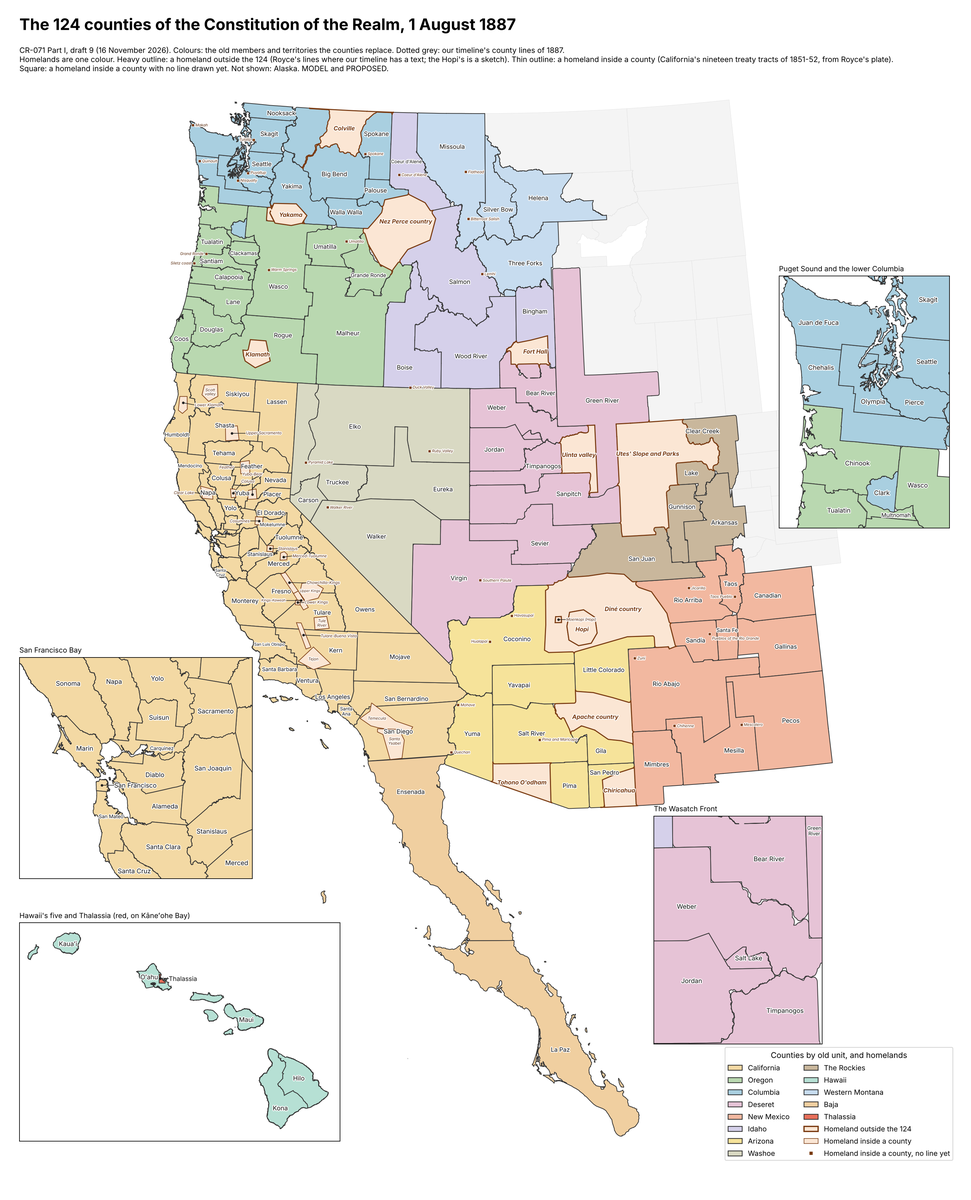
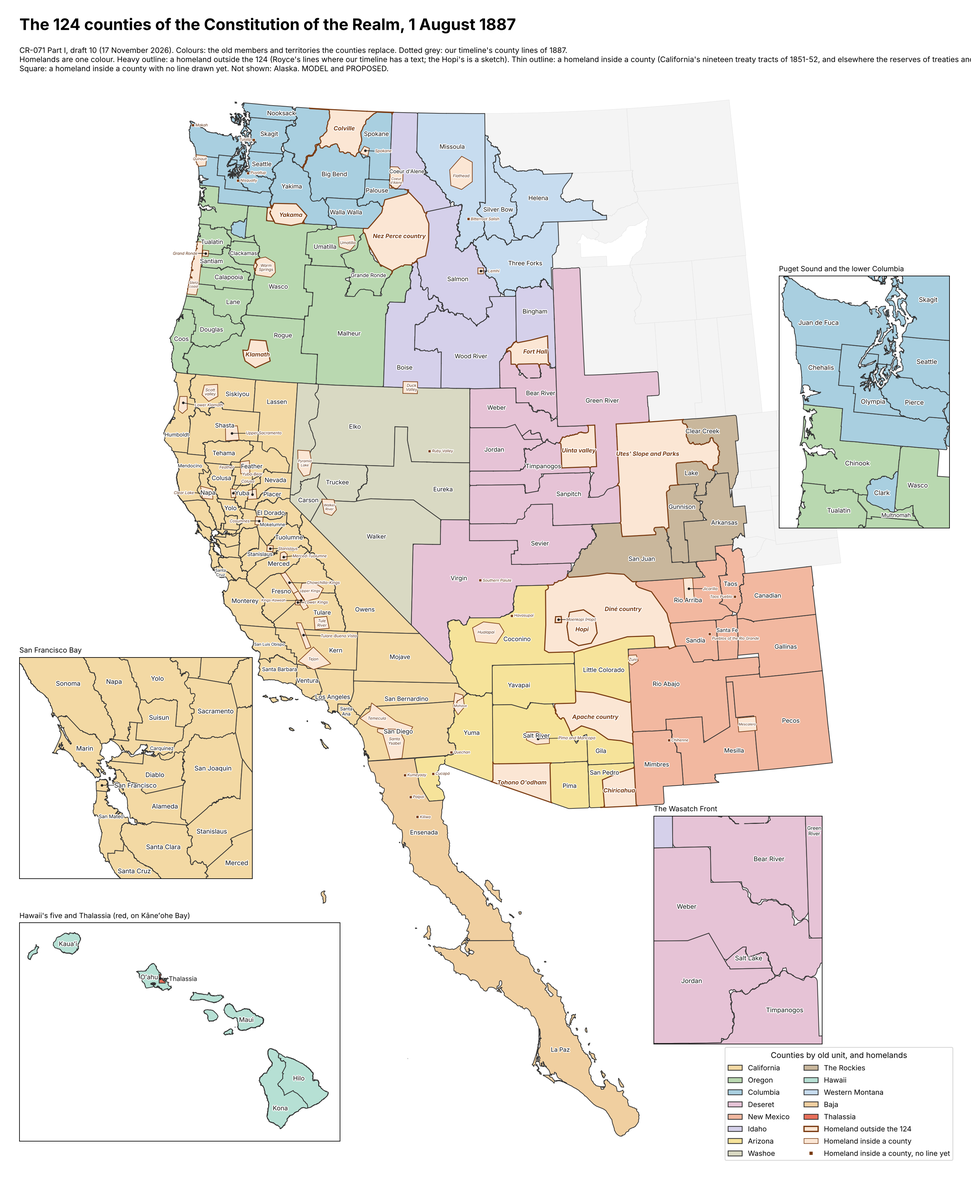
CR-071 Part I draft 10: Nez Perce and Uinta checked against Royce's plates; enclaves outlined (I-60); Baja's peoples; delta to Yuma; sources for Salt Lake City and the Diné; stale labels cleared
Claude-Session: https://claude.ai/code/session_016F3fbVaKruuGcW1W1UBgCv

diff --git a/population/draw_map_1887.py b/population/draw_map_1887.py
@@ -180,7 +180,10 @@ def main():
     new["Thalassia"] = [oahu.intersection(thal)]
     new["Oʻahu"] = [oahu.difference(thal)]
     baja = {f["properties"]["name"]: shape(f["geometry"]) for f in json.load(open(DATA / "baja_outline.geojson"))["features"]}
-    new["Ensenada"] = [baja["Baja California"]]
+    # the Colorado's delta below the line goes with Yuma, not Ensenada (I-55)
+    delta = baja["Baja California"].intersection(Polygon([(-115.75, 32.75), (-114.6, 32.75), (-114.6, 31.6), (-115.25, 31.55), (-115.55, 31.95)]))
+    new["Ensenada"] = [baja["Baja California"].difference(delta)]
+    new["Yuma"].append(delta)
     new["La Paz"] = [baja["Baja California Sur"]]
     merged = {n: unary_union(gs).buffer(0) for n, gs in new.items()}
     hl = tomllib.load(open(DATA / "homelands_1887.toml", "rb"))
@@ -236,7 +239,7 @@ def main():
                 report.append(f"{n}: a detached {sqmi:,.0f} sq mi goes to the {near_home} homeland")
             elif best:
                 merged[best] = unary_union([merged[best], pc]).buffer(0)
-                report.append(f"{n}: a detached {sqmi:,.0f} sq mi goes to {best}")
+                report.append(f"{n}: a detached {sqmi:,.0f} sq mi (near {pc.centroid.x:.2f}, {pc.centroid.y:.2f}) goes to {best}")
             else:
                 merged[n] = unary_union([merged[n], pc])
                 report.append(f"{n}: a detached {sqmi:,.0f} sq mi stays with it (no neighbour)")
@@ -284,6 +287,10 @@ def main():
     tracts = {t["name"]: Polygon(t["ring"]).intersection(cal_land) for t in hl["tract"]}
     for tg in tracts.values():
         draw_poly(ax, P(tg), facecolor=HOME, edgecolor="#7a3b12", linewidth=0.8, zorder=5)
+    land = unary_union([merged[n] for n in main_names])
+    encl = {e["name"]: Polygon(e["ring"]).intersection(land).buffer(0) for e in hl.get("enclave", [])}
+    for eg in encl.values():
+        draw_poly(ax, P(eg), facecolor=HOME, edgecolor="#7a3b12", linewidth=0.8, zorder=5)
     ax.autoscale_view()
     x0, x1 = ax.get_xlim()
     ax.set_xlim(x0 - 0.02, x1 + 0.005)
@@ -425,7 +432,7 @@ def main():
         if n in in_inset:
             continue
         label_area(ax, n, P(merged[n]), (7.6, 6.6, 5.8, 5.0), county_style)
-    for tname, tg in sorted(tracts.items(), key=lambda kv: kv[1].area):
+    for tname, tg in sorted(list(tracts.items()) + list(encl.items()), key=lambda kv: kv[1].area):
         label_area(ax, tname, P(tg), (5.0, 4.4), dict(color="#5a2a0c", style="italic"), allow_outside=True, key_suffix=" (homeland)")
     # 3. the insets
     for a_, view, names, proj, outside_ok in insets:
@@ -449,10 +456,10 @@ def main():
                  fontsize=7.2, va="top", linespacing=1.25)
 
     fig.text(0.02, 0.975, "The 124 counties of the Constitution of the Realm, 1 August 1887", fontsize=20, weight="bold")
-    fig.text(0.02, 0.962, "CR-071 Part I, draft 9 (16 November 2026). Colours: the old members and territories the counties replace. "
+    fig.text(0.02, 0.962, "CR-071 Part I, draft 10 (17 November 2026). Colours: the old members and territories the counties replace. "
              "Dotted grey: our timeline's county lines of 1887.\n"
              "Homelands are one colour. Heavy outline: a homeland outside the 124 (Royce's lines where our timeline has a text; the Hopi's is a sketch). "
-             "Thin outline: a homeland inside a county (California's nineteen treaty tracts of 1851-52, from Royce's plate).\n"
+             "Thin outline: a homeland inside a county (California's nineteen treaty tracts of 1851-52, and elsewhere the reserves of treaties and orders before 1887).\n"
              "Square: a homeland inside a county with no line drawn yet. Not shown: Alaska. MODEL and PROPOSED.",
              fontsize=9.5, va="top")
     handles = [plt.Rectangle((0, 0), 1, 1, fc=c, ec="#333333") for c in UNIT_COLOUR.values()]
@@ -475,7 +482,18 @@ def main():
             sq = g.area * 69.0 * 69.0 * math.cos(math.radians(g.centroid.y))
             tot += sq
             f.write(f"| {t['royce']} | {t['treaty']} | {t['name']} | {sq:,.0f} |\n")
-        f.write(f"| | | **Total** | {tot:,.0f} |\n\n## Counties adjusted to the homelands' lines\n\n")
+        f.write(f"| | | **Total** | {tot:,.0f} |\n\n## Other enclaves outlined (I-60)\n\n"
+                "Source: *plate*, placed by eye from Royce's state plate; *memory*, placed from the assistant's knowledge "
+                "of the reserve's place and size, not yet checked against the plate.\n\n"
+                "| Enclave | Line | Source | Square miles as drawn |\n|---|---|---|---|\n")
+        etot = 0.0
+        for e in hl.get("enclave", []):
+            g = encl[e["name"]]
+            sq = g.area * 69.0 * 69.0 * math.cos(math.radians(g.centroid.y))
+            etot += sq
+            f.write(f"| {e['name']} | {e['basis']} | {e['source']} | {sq:,.0f} |\n")
+        f.write(f"| **Total** | | | {etot:,.0f} |\n\nSquares (no line before 1887, or too small to outline): "
+                + ", ".join(n for n, _x, _y in hl["enclaves"]["elsewhere"]) + ".\n\n## Counties adjusted to the homelands' lines\n\n")
         f.write("\n".join(f"- {r}" for r in report) + "\n")
     print("\n".join(report))
     print({h: round(a) for h, a in areas.items()})

diff --git a/book-agent/revision/CR-071-I-map.md b/book-agent/revision/CR-071-I-map.md
@@ -1,6 +1,6 @@
 # CR-071, Part I — The map: the 124 counties
 
-**Status:** DRAFT 9, 16 November 2026: all 124 drawn and approved by the author region by region; the large homelands' lines drawn from Royce and the counties cut to them (I4a; the rule APPROVED, I-46 to I-49); California's nineteen treaty tracts traced from Royce's plate (PROPOSED); map in `population/outputs/map_1887.png`. Decisions I-1 to I-60 below carry the author's words of 16 November; everything else is PROPOSED. Nothing is integrated.
+**Status:** DRAFT 10, 16 November 2026: all 124 drawn and approved by the author region by region; the large homelands' lines drawn from Royce and the counties cut to them (I4a; the rule APPROVED, I-46 to I-49); California's nineteen treaty tracts traced from Royce's plate (PROPOSED); map in `population/outputs/map_1887.png`. Decisions I-1 to I-60 below carry the author's words of 16 November; everything else is PROPOSED. Nothing is integrated.
 **Read with:** `CR-071-outline.md` (Part I), `CR-071-E-preparation.md` (E4, E5, E7), `CR-071-FG-triggers-act.md` (G3), CR-021 (B3, G), CR-033, CR-037, CR-070.
 **Numbers:** `population/outputs/counties_1887.md` (our timeline's counties of 1 August 1887), `population/outputs/regions_1887.md` (Pacifica's residents by old unit), both built by scripts in `population/`. Every population figure is MODEL.
 
@@ -143,7 +143,7 @@ Alaska's counties of the strawman return to the pool (I-7). The rule behind the 
 
 ## I4a. The homelands' lines (draft 2, PROPOSED; redrawn from Royce on the author's request of 16 November, 17:35)
 
-**Source.** The author supplied Royce, *Indian Land Cessions in the United States* (Bureau of American Ethnology, 18th Annual Report, 1899; the 1971 reprint). Its schedule gives each treaty's or order's boundary in words. The lines below are placed from those words: parallels, meridians and distances exactly, rivers from a river map, crests and creeks within a few miles. They are treaty lines, not surveys. Read in the schedule this session: the Colville order of 1872, the Moqui (Hopi) order of 1882, the Yakama reserve of 1855, the Ute treaty of 1868, the Klamath reserve of 1864, the Fort Hall order of 1867, the White Mountain order of 1871 and the Chiricahua order of 1872. **Not yet read there** (the scan's text is broken at those entries; placed from the assistant's memory of the texts): the Nez Perce reserve of 1855 and the Uinta order of 1861. Royce's plates are in the file and have not yet been used.
+**Source.** The author supplied Royce, *Indian Land Cessions in the United States* (Bureau of American Ethnology, 18th Annual Report, 1899; the 1971 reprint). Its schedule gives each treaty's or order's boundary in words. The lines below are placed from those words: parallels, meridians and distances exactly, rivers from a river map, crests and creeks within a few miles. They are treaty lines, not surveys. Read in the schedule this session: the Colville order of 1872, the Moqui (Hopi) order of 1882, the Yakama reserve of 1855, the Ute treaty of 1868, the Klamath reserve of 1864, the Fort Hall order of 1867, the White Mountain order of 1871 and the Chiricahua order of 1872. The Nez Perce reserve of 1855 and the Uinta order of 1861 were read later the same night (17 November) in the schedule and checked against the plates for Idaho (CXXIII, nos. 441–442) and Utah (no. 431); both lines were corrected (below).
 
 **The rule (APPROVED, I-46).** A homeland's line is the line of the agreement that made it. Pacifica keeps its own treaties and assumes the Union's ratified ones (CR-059 N-B; CR-060 N1). Where our timeline drew the line only after 1861, it is used as a first size and the agreement is Pacifica's own, to be dated. A cut our timeline made later is not made (the Nez Perce, 1863), except where it took out a mining district or a settled valley, which here is county ground or leased ground anyway (I-34).
 
@@ -153,18 +153,18 @@ Alaska's counties of the strawman return to the pool (I-7). The rule behind the 
 |---|---|---|---|
 | **Diné country** | Canon's treaty of 1865, I-18, I-19: the San Juan and the Colorado on the north, the Colorado and Little Colorado to the Peaks on the west, north of the railway on the south, the Chaco country to Mount Taylor on the east | 24,000 | Coconino, Little Colorado, Sandía, Rio Arriba and San Juan end at it; Utah's ground south of the San Juan is inside |
 | **Utes' Slope and Parks** | Royce: the treaty of 1868, west of 107° W to fifteen miles north of 40° N. Drawn as our timeline's Mesa, Delta, Montrose, Garfield, Routt and Grand counties, so its edge is county lines | 22,000 | San Juan, Gunnison and Lake are whole; they are the leased mining counties (I-34) |
-| **Nez Perce country** | The reserve of 1855 with the Wallowa (from memory; to check in Royce) | 10,200 | Palouse keeps the Moscow country; Lewiston and the Clearwater camps are leased ground inside the homeland; Salmon begins at the Salmon River; Walla Walla loses its Blue Mountain corner |
+| **Nez Perce country** | Royce: the reserve of 1855 with the Wallowa. Checked on the Idaho plate: the east line is not the Bitterroot crest but a line about 115°33′ W, and the reserve reaches the Salmon well above the old crossing; the south-east corner, cut off in draft 2, is restored | 10,800 | Palouse keeps the Moscow country; Lewiston and the Clearwater camps are leased ground inside the homeland; Salmon begins at the Salmon River; Walla Walla loses its Blue Mountain corner |
 | **Apache country** | Royce: the White Mountain order of 9 November 1871, whole. Not the San Carlos addition of 1872 (the Gila's valley floor) and none of the reductions of 1873–77 (I-52) | 8,100 | **Gila is one piece**: the Gila's valley from the San Carlos country up to Safford and Duncan. Globe and Clifton lie inside the homeland on lease, like Lewiston (I-47) |
 | **Tohono O'odham** | Pacifica's own; our timeline's Pima County west of the Baboquivari crest | 5,100 | **Pima is one piece** round Tucson |
 | **Colville** | Royce: the order of 2 July 1872, between the Columbia and the Okanogan | 4,900 | **Spokane is not divided**: it keeps the Colville valley east of the Columbia. The Okanogan country west of the homeland, cut off from Spokane, goes to Big Bend |
-| **Uinta valley** | The order of 1861 (from memory; to check), as that part of our timeline's Wasatch and Uintah counties | 4,800 | **Timpanogos is one piece** (it keeps the Heber valley); Green River keeps the Ashley valley |
+| **Uinta valley** | Royce: the order of 1861, the valley to the crest of the first range on each side. Checked on the Utah plate: the south line is the Tavaputs crest at about 39°57′ N, not the old counties' line near 39°18′; the strip between goes back to Timpanogos and Green River | 3,700 | **Timpanogos is one piece** (it keeps the Heber valley); Green River keeps the Ashley valley |
 | **Chiricahua** | Royce: the order of 1872, from Dragoon Springs to the Peloncillos, New Mexico's line, Mexico, and fifty-six miles west along it | 3,300 | San Pedro is the valley west of the Dragoons. **Tombstone lies outside the line**; Bisbee lies just inside (I-37's lease is Bisbee's copper, not Tombstone's silver) |
 | **Fort Hall** | Royce: the order of 1867, from the Portneuf's mouth | 2,800 | Bingham north of the Blackfoot; the ground south of the homeland goes to Bear River |
 | **Yakama** | Royce: the reserve of 1855 | 2,200 | Yakima county keeps the river's left bank and the upper valley |
 | **Klamath** | Royce: the reserve of 1864 | 1,700 | Inside Rogue, which stays one piece |
 | *Hopi* (inside the Diné country) | By named places (HP2), a sketch: Dinnebito Wash on the west, Black Mesa's rim on the north, Keams Canyon on the east, the Hopi Buttes on the south; Moenkopi a detached part. Royce's box of degrees (order of 1882) is not used | 2,700 | none |
 
-The large homelands together are about 89,000 square miles.
+The large homelands together are about 88,600 square miles.
 
 **Changes this makes to earlier text in this part.** The Diné country is about 24,000 square miles (not "on the order of 30,000"). Tombstone's silver is county ground; I-37's lease is for Bisbee. Globe and Clifton are leased ground inside the Apache country (I-52), in no county. The Okanogan country is in Big Bend. Counties' people in `map_1887.md` are not yet moved to match (Globe's, Clifton's and the Okanogan's are small).
 
@@ -198,7 +198,10 @@ The large homelands together are about 89,000 square miles.
 - **The names** are labels for this part. The treaty places and dates beside them in `homelands_1887.toml` are from the assistant's memory except where Royce prints the date; Heizer, *The Eighteen Unratified Treaties of 1851–1852* (1972), has the texts.
 - **Tejon (285) and Temecula (307) are large for enclaves** (1,100 and 1,900 square miles, under I-26's 3,000). Temecula lies across three counties.
 
-**Other enclaves** (squares on the map, not yet outlined): Warm Springs, Umatilla, the Siletz coast, Grand Ronde, Quinault, Makah, Tulalip, Puyallup, Nisqually, Coeur d'Alene, Spokane, Flathead, the Bitterroot Salish, Lemhi, Duck Valley, Pyramid Lake, Walker River, Ruby Valley, the Southern Paiute, Moenkopi, Zuni, the Rio Grande Pueblos, Taos Pueblo, the Jicarilla (I-31), the Mescalero, the Chihenne, the Pima and Maricopa, the Quechan, the Mohave, the Hualapai, the Havasupai. Not complete; Baja's peoples are OPEN.
+**Other enclaves (I-60, APPROVED; the lines PROPOSED).** Outlined where a treaty or order before 1887 gives a line and the reserve is larger than about 80 square miles; the table, with sources and areas, is in `population/outputs/homelands_1887.md` (about 13,000 square miles in all). Where a reserve was enlarged before 1887 the larger line is used (Gila River, Colorado River, Quinault); where it was cut before 1887, the line before the cut (the Coast reservation of 1855, Umatilla before 1882). **Placed from Royce's plates:** Coeur d'Alene (1873), Lemhi (1875), Zuni (1877), the Jicarilla (1887, I-58), the Mescalero (1873–83). **Placed from the assistant's knowledge of the reserves, not yet checked against the plates:** Warm Springs, Umatilla, the Siletz coast, Grand Ronde, Quinault, Spokane, Flathead, Duck Valley, Pyramid Lake, Walker River, the Pima and Maricopa, the Mohave, the Hualapai. **Squares** (no line before 1887, or too small to outline): Makah, Tulalip, Puyallup, Nisqually, the Bitterroot Salish, Ruby Valley (I-59; our timeline drew no line), the Southern Paiute, the Pueblos of the Rio Grande and Taos (Spanish grants of about four square leagues each, too small at this scale), the Quechan, the Havasupai, the Chihenne, and Baja's Kumeyaay, Paipai, Kiliwa and Cucapá (I-56; the Cucapá inside Yuma, I-55).
+
+- **The Chihenne (for the author).** §15 puts the Chihenne's country and the Santa Rita lease in Mimbres. Royce's plate has our timeline's Ojo Caliente reserve of 1874 north of there, on ground that is Río Abajo's on this map (our timeline's Socorro County). The map keeps a square in Mimbres, as canon has it. Either the enclave is the Ojo Caliente reserve and lies in Río Abajo, or Mimbres takes the Ojo Caliente country from Río Abajo, or the Chihenne's line is drawn round Santa Rita instead.
+- **Leased towns' people** are counted with the county that held them before the line (Lewiston with Palouse, I-47; Globe and Clifton with Gila, I-52; Grangeville and the Camas prairie with Salmon); they vote there (I-9). The Okanogan country's people (about 3,000, MODEL) are moved from Spokane to Big Bend.
 
 **The Apache line (I-52, APPROVED) and a note for canon.** The Apache country's border is the line our timeline's order of 9 November 1871 drew, and in this timeline it is the Apache country's **from the peace of 1865** (§15): it is written into that peace, not ordered six years later. Nobody has to be removed to make it. In 1865 there is no settlement inside the line (Hist.: Clifton's copper was first worked in 1872 and Globe's silver found in 1875–76; Safford, on the valley floor outside the line, dates from 1874). The mining camps that come afterwards come by lease from the Apache through the Realm, as at Bisbee (I-37) and Lewiston (I-47), and the reductions of 1873–77, which in our timeline cut Globe, Clifton and the upper Gila out of the reserve, do not happen. OPEN for the storyline: which Apache bands sign in 1865 and where, and the text of the lease article. To be carried into §15 when Part I is integrated.
 
@@ -218,7 +221,7 @@ The Northern Commission continues under its charter of 1867 (CR-070), reporting 
 |---|---|---|---|---|
 | **Bear River** | Logan | Cache, Rich, northern Box Elder; Idaho's Bear Lake and Oneida | 52 | Crosses the old Idaho line |
 | **Weber** | Ogden | Weber, Davis, Morgan, southern Box Elder, Summit (I-14) | 59 | The railway junction; the Committee party's town |
-| **Salt Lake** | Salt Lake City | The city and its benches | about 54 | A city-county with a board, as San Francisco is; the old capitol is its hall (G4). The city's share of the valley's people is an estimate to verify |
+| **Salt Lake** | Salt Lake City | The city and its benches | about 54 | A city-county with a board, as San Francisco is; the old capitol is its hall (G4). The city's share of the valley is 72%: Salt Lake City had 20,768 people in 1880 of the county's 31,977 (65%; Mulder, *Utah Historical Quarterly* 24, 1956, from the census) and about 44,800 in 1890 of 58,457 (77%; the city's figure from memory, to verify); 72% is the line between them in 1887 |
 | **Jordan** | Murray | The valley south of the city, the Oquirrh mines; Tooele | about 27 | The smelters and the Utah Southern's stations |
 | **Timpanogos** | Provo | Utah, Wasatch, Juab | 46 | |
 | **Sanpitch** | Manti | Sanpete, Millard, Emery | 30 | |
@@ -228,11 +231,11 @@ The Northern Commission continues under its charter of 1867 (CR-070), reporting 
 
 **Park City and Coalville: with Weber (I-14, APPROVED).** The Weber rises there, so the first rule puts them in its county; the branch from Park City and Coalville meets the main line at Echo and runs down to Ogden; and the camp's ore goes to the valley's smelters, not to Wyoming. Green River then is the Wyoming line, the coal and the Uinta basin, at about 18,000 people, which is in the interior's range.
 
-Utah's San Juan goes with the Four Corners (below). County language: English in all nine. The Utes' homelands of the Uinta basin and central Utah (CR-060 N6) are drawn round; their lines are OPEN.
+Utah's San Juan goes with the Four Corners (below). County language: English in all nine. The Utes' homelands of the Uinta basin and central Utah (CR-060 N6) are drawn round; their lines are in I4a (the Uinta valley; the Utes' Slope and Parks).
 
 ### New Mexico and the Diné country (draft 1, PROPOSED)
 
-**The Diné country.** The homeland of the treaty of 1865 (§15) is a unit of its own on the map, outside every county (I-8). Its southern line runs north of the thirty-fifth-parallel railway, so the line, Gallup, its coal and the other settlements along it stay in the counties (I-18, APPROVED). PROPOSED for the rest: the San Juan on the north; on the east the Chaco country to Mount Taylor; on the west across the Little Colorado to the San Francisco Peaks. That is on the order of 30,000 square miles, larger than any county of the 124, and it lies across the old New Mexico and Arizona lines, so no county line is drawn through it. About 20,000 people in 1887 (MODEL, to be sourced: no Long Walk in this timeline). It chooses the Diné seat in the Senate (I-11). The Hopi mesas lie inside it as a homeland of their own (terms below).
+**The Diné country.** The homeland of the treaty of 1865 (§15) is a unit of its own on the map, outside every county (I-8). Its southern line runs north of the thirty-fifth-parallel railway, so the line, Gallup, its coal and the other settlements along it stay in the counties (I-18, APPROVED). PROPOSED for the rest: the San Juan on the north; on the east the Chaco country to Mount Taylor; on the west across the Little Colorado to the San Francisco Peaks. That is on the order of 30,000 square miles, larger than any county of the 124, and it lies across the old New Mexico and Arizona lines, so no county line is drawn through it. About 20,000 people in 1887 (MODEL). The sources: an incomplete count gave 7,300 in 1867 and fewer than 9,000 in 1869, after the Long Walk; the census of 1890, on a faulty system, gave 17,204, of whom 11,042 were counted in Arizona, 5,109 in New Mexico and 993 in Utah or roaming (Special Agent Marmon's report of 1891; summarised in Johnston, *An Analysis of Sources of Information on the Population of the Navaho*, BAE Bulletin 197, 1966). With no Long Walk and no Bosque Redondo here, 20,000 by 1887 is at the high end but defensible. It chooses the Diné seat in the Senate (I-11). The Hopi mesas lie inside it as a homeland of their own (terms below).
 
 **The four mountains (APPROVED, I-19).** The four are the corners of a kite of about 28,000 square miles that fits the Diné's own country badly: it takes in the Chama valley, Conejos and the Utes' and Jicarilla's ground, and leaves out Kayenta and Navajo Mountain. So the homeland is the country the Diné hold, drawn out to the two mountains it can reach:
 - **Mount Taylor and the San Francisco Peaks:** the summits and the northern slopes lie inside the homeland; the southern feet, where the railway, Cubero, Cebolleta and Flagstaff are, stay in the counties (I-18). Both are sacred to other nations as well (Acoma, Laguna and Zuni; the Hopi and the Havasupai), and the compact writes their access in.
@@ -261,11 +264,11 @@ Utah's San Juan goes with the Four Corners (below). County language: English in 
 | **Taos** | Taos | Taos; Colorado's Costilla | 17 | Spanish and English |
 | **Rio Arriba** | Española | Rio Arriba; Colorado's Conejos; San Juan (the Farmington settlements) | 25 | Spanish and English |
 | **Gallinas** | Las Vegas | San Miguel | 30 | Spanish and English |
-| **Canadian** | Cimarron or Springer (OPEN) | Mora, Colfax | 22 | Spanish and English |
+| **Canadian** | Springer (I-29) | Mora, Colfax | 22 | Spanish and English |
 | **Sandía** | Albuquerque | Bernalillo east of the Diné country | 24 | Spanish and English |
 | **Río Abajo** | Socorro | Valencia, Socorro | 29 | Spanish and English |
 | **Mesilla** | Las Cruces | Doña Ana, Sierra, Lincoln west of the Mescalero's mountains | 17 | Spanish and English |
-| **Pecos** | Roswell | Lincoln's plains on the Pecos | about 6 | English (OPEN) |
+| **Pecos** | Roswell | Lincoln's plains on the Pecos | about 6 | English (I-30) |
 | **Mimbres** | Silver City | Grant | 10 | English |
 
 - **Across the old lines.** Taos and Rio Arriba take the San Luis Valley's Hispano counties: one watershed, one language, and the narrow gauge runs through both (CR-060 CO7). The old Colorado line there disappears. No county encloses New Mexico whole, and none carries its name.
@@ -311,7 +314,7 @@ Forty-three counties from our timeline's fifty-two, San Francisco among them. Th
 - **The band.** Outside San Francisco the counties run from 19,000 (Owens) to 254,000 (Alameda); Mojave, at 6,000, is the exception the travel rule makes. San Francisco has about 645,000 people (I-21), a fifth of California and a ninth of the Realm, in one county with one senator.
 - **Language.** Spanish is entrenched in the whole historic land (§25), so no county grant is needed.
 - **Asian settlement (I-5).** California has about 619,000 people of Asian origin, 19%. PROPOSED: the largest shares, a third or more, are in the Delta counties (Sacramento, San Joaquin), where Chinese crews built the levees and farm behind them, and in the new irrigation counties of the south valley (Fresno, Tulare, Kern); San Francisco has the largest number.
-- **Homelands (I-8).** The homelands of the treaties of 1851–52 lie inside these counties as enclaves; the Miwok homeland, the first and the pattern (§8), is in Mokelumne. Their boundaries are OPEN in canon (§8).
+- **Homelands (I-8).** The homelands of the treaties of 1851–52 lie inside these counties as enclaves; the Miwok homeland, the first and the pattern (§8), is in Mokelumne. Their lines are traced from Royce's plate in I4a (I-50, a working version); the Miwok homeland is the Cosumnes tract (I-51).
 - **Seats of state** (CR-021 B6): Monterey (the Court), San Francisco, Sacramento (the inland command's headquarters, G4) and Carquinez each sit in a county of their own name.
 
 ### Oregon and Columbia — APPROVED (I-24 to I-27, I-33)
@@ -353,7 +356,7 @@ Fourteen and thirteen counties, from our timeline's twenty-nine and thirty-three
 
 - **Names (I-24).** No county may be named for a member (L8), so our timeline's two Columbia counties lose the name. A county whose lines do not change keeps its name (Lane, Douglas, Pierce, Clark, Clackamas, Multnomah); a merged county is named for its river or town. Our timeline's Lincoln, Garfield, Union and Grant counties, named after 1861, each lie inside a merged county.
 - **The capitols.** Salem's and Olympia's become county halls (G4), in Santiam and Olympia.
-- **Homelands (I-8).** Our timeline's Wallowa County is left out: with no war of 1877 the Wallowa is the Nez Perce's country. Which of the Northwest's homelands are large units outside the counties (PROPOSED: the Yakama, Colville, Nez Perce and Klamath countries) and which are enclaves (Warm Springs, Umatilla, the Sound's and the coast's) is OPEN, with their lines.
+- **Homelands (I-8).** Our timeline's Wallowa County is left out: with no war of 1877 the Wallowa is the Nez Perce's country. Which of the Northwest's homelands are large units outside the counties (the Yakama, Colville, Nez Perce and Klamath countries, I-26 and I-49) and which are enclaves (Warm Springs, Umatilla, the Sound's and the coast's) is settled; the lines are in I4a (I-60 for the enclaves).
 - **Asian settlement (I-5).** Columbia about 93,000 and Oregon about 66,000 people of Asian origin. PROPOSED: the largest shares in Chinook (the canneries; our timeline's Astoria was about a third Chinese in 1880, to verify), Tacoma, Seattle and Yakima; the Willamette counties the smallest, where the exclusion men of 1866 sit (G-6).
 - **Weak point.** Rogue reaches over the Cascades to the Klamath and Lake basins, more than a day from Jacksonville; most of that basin is the Klamath's country (I-26).
 
@@ -468,10 +471,10 @@ Hawaii had no counties in our timeline before 1905; the Kingdom had a governor f
 - **Size.** The median county has about 30,000 people. The largest are San Francisco (645,000), Los Angeles (266,000) and Alameda (254,000); the smallest Pecos and Yuma (5,000), Coconino, Mojave and Walker (6,000).
 - **Language.** Spanish stands beside English in all of California (entrenched) and in eleven counties by grant (eight of New Mexico's, Pima, La Paz, Ensenada); Hawaiian in Hawaii's five and Thalassia.
 - **The Senate of 1888:** 123 county senators (California 43, or 35%, with 56% of the people), seven homeland seats (I-11, I-32), eight aliʻi seats, twelve Polytechnic seats, and up to a quarter appointed (CR-021 A). G3's table is to be replaced by this one.
-- **Outside the 124:** Alaska under the Northern Commission (I-7), and the large homelands (I-8, I-26): the Diné country, the Utes' Slope and Parks, the Yakama, Colville, Nez Perce and Klamath countries, Fort Hall, the Tohono O'odham's desert, the White Mountain and San Carlos Apache country and the Chiricahua's. Their lines are OPEN except where this part gives them.
+- **Outside the 124:** Alaska under the Northern Commission (I-7), and the large homelands (I-8, I-26): the Diné country, the Utes' Slope and Parks, the Yakama, Colville, Nez Perce and Klamath countries, Fort Hall, the Tohono O'odham's desert, the White Mountain and San Carlos Apache country and the Chiricahua's. Their lines are in I4a.
 - **Not in any county in the model:** about 8,000 people our timeline counted in Wallowa County (the Nez Perce's country here).
 
-**Still owed or open across the part:** sources for Salt Lake City's share of its valley and the Diné population; the homelands' lines; the dates and builders of the three railways this part assumes (I-16, I-27, I-29); the 1880 census sums of Colorado, Montana and Oregon; three 1890 figures; maps drawn from the atlas's geometry.
+**Still owed or open across the part:** the 1880 census sums of Colorado, Montana and Oregon; three 1890 figures; the thirteen enclaves placed from memory, to check against Royce's plates; the Chihenne's enclave (I4a); the Hopi line with the villages' own names (I-57); the Baja commissioners' names (I-54); the Senate table to carry into Part G (G3); the settlement programme to write into Part C and cost.
 
 
 ## Fact changes

diff --git a/population/outputs/homelands_1887.md b/population/outputs/homelands_1887.md
@@ -6,17 +6,17 @@ Built by `population/draw_map_1887.py` from `data/counties/homelands_1887.toml`.
 |---|---|---|
 | Diné country | 21,279 | none: canon's own treaty. North: the San Juan and the Colorado; west: the Colorado and the Little Colorado to the Peaks; south: north of the thirty-fifth-parallel railway; east: the Chaco country to Mount Taylor |
 | Utes' Slope and Parks | 21,989 | treaty of 2 March 1868: west of 107 W, from Colorado's south line to 15 miles north of 40 N. Drawn as our timeline's six counties of 1887 on that ground that are in no county of the 124, so the mining counties held on lease (I-34) stay whole |
-| Nez Perce country | 10,207 | treaty of 11 June 1855, the reserve: from the south fork of the Palouse to the Snake 10 miles below the Alpowa, the Alpowa's source, the crest of the Blue Mountains, the Grande Ronde, the divide of the Wallowa and the Powder, the Snake 15 miles below the Powder, the Salmon, and the spurs of the Bitterroots |
+| Nez Perce country | 10,810 | treaty of 11 June 1855, the reserve: from the south fork of the Palouse to the Snake 10 miles below the Alpowa, the Alpowa's source, the crest of the Blue Mountains, the Grande Ronde, the divide of the Wallowa and the Powder, the Snake 15 miles below the Powder, the Salmon, and the spurs of the Bitterroots |
 | Yakama | 2,157 | treaty of 9 June 1855, the reserve: up the Ahtanum from the Yakima to the Cascades, along the main ridge past Mount Adams, the divides of the Klickitat, Pisco and Satus, to the Yakima at the Satus, up the Yakima |
 | Colville | 4,916 | executive order of 2 July 1872: bounded east and south by the Columbia, west by the Okanogan, north by the British line |
 | Klamath | 1,653 | treaty of 14 October 1864, the reserve: from the Point of Rocks on Klamath Lake up the shore and Wood River to Fort Klamath, east past the north end of the upper lake to the mountains, along them to the Sprague, and back by the summit to the Point of Rocks |
 | Fort Hall | 2,805 | executive order of 14 June 1867: from the Portneuf's mouth 25 miles south to the Bear River divide, 70 miles east along it, about 50 miles north to the Blackfoot, down it to the Snake, down the Snake |
-| Uinta valley | 4,756 | executive order of 3 October 1861: the whole valley of the Uinta, on both sides to the crest of the first range of mountains. Drawn as that part of our timeline's Wasatch and Uintah counties |
+| Uinta valley | 3,704 | executive order of 3 October 1861: the whole valley of the Uinta, on both sides to the crest of the first range of mountains. Drawn as that part of our timeline's Wasatch and Uintah counties north of about 39 deg 57 min N, the south line taken from Royce's plate (Utah, no. 431) |
 | Apache country | 8,069 | White Mountain reserve, executive order of 9 November 1871: the south edge of the Black Mesa from New Mexico's line west to a point north of Sombrero Butte, the Apache Mountains and the Salt to Pinal Creek, up it to the Pinal Mountains, then the crests north of the Gila to New Mexico's line near Steeple Rock. Not the San Carlos addition of 1872 (the Gila's valley) and none of the reductions of 1873-77: Globe and Clifton lie inside, on lease |
 | Chiricahua | 3,329 | executive order of 14 December 1872: from Dragoon Springs along the north base of the Chiricahua Mountains to the Peloncillo summit, to New Mexico's line, south to Mexico, west 56 miles, north along the west base of the Dragoons |
 | Tohono O'odham | 5,149 | none before 1874 (San Xavier). Drawn as our timeline's Pima County west of the Baboquivari crest, so that Tucson's county is one piece |
 | Hopi | 2,742 | our timeline's order of 16 December 1882 drew a box of degrees (110 to 111 W, 35 30 to 36 30 N); HP2 refuses that. Sketched instead by places: Dinnebito Wash on the west, Black Mesa's rim on the north, Keams Canyon on the east, the Hopi Buttes on the south. A sketch, to be settled with the villages' own names |
-| **Total** | 89,052 | |
+| **Total** | 88,603 | |
 
 ## California's nineteen tracts (enclaves)
 
@@ -43,12 +43,40 @@ Built by `population/draw_map_1887.py` from `data/counties/homelands_1887.toml`.
 | 309 | 7 January 1852, Santa Ysabel | Santa Ysabel | 1,617 |
 | | | **Total** | 10,424 |
 
+## Other enclaves outlined (I-60)
+
+Source: *plate*, placed by eye from Royce's state plate; *memory*, placed from the assistant's knowledge of the reserve's place and size, not yet checked against the plate.
+
+| Enclave | Line | Source | Square miles as drawn |
+|---|---|---|---|
+| Warm Springs | treaty of 25 June 1855: the Deschutes on the east, the Cascades on the west | memory | 1,045 |
+| Umatilla | treaty of 9 June 1855, the reserve before the reductions of 1882-88 | memory | 618 |
+| Siletz coast | the Coast reservation, executive order of 30 November 1855, before the cuts of 1865 and 1875 | memory | 1,377 |
+| Grand Ronde | executive order of 30 June 1857 | memory | 106 |
+| Quinault | treaty of 1855-56, the reserve as enlarged by the order of 4 November 1873 | memory | 323 |
+| Spokane | executive order of 18 January 1881: between Chamokane creek, the Spokane and the Columbia | memory | 170 |
+| Coeur d'Alene | executive order of 8 November 1873 (Royce 552) | plate | 765 |
+| Flathead | Hellgate treaty of 16 July 1855, the Jocko reserve | memory | 1,734 |
+| Lemhi | executive order of 12 February 1875, on the Lemhi (Royce 575) | plate | 101 |
+| Duck Valley | executive order of 16 April 1877, with the Idaho addition of 1886 | memory | 531 |
+| Pyramid Lake | set apart in 1859, confirmed by executive order of 23 March 1874 | memory | 925 |
+| Walker River | set apart in 1859, confirmed by executive order of 19 March 1874 | memory | 546 |
+| Zuni | executive order of 16 March 1877 (Royce 645) | plate | 229 |
+| Jicarilla | executive order of 14 February 1887 (Royce 624), the Dulce country (I-31, I-58) | plate | 606 |
+| Mescalero | executive orders of 1873-83 (Royce 643-644), in the Sacramento and White Mountains | plate | 781 |
+| Pima and Maricopa | the Gila River reserve of 1859 as enlarged by the orders of 1876-83 | memory | 701 |
+| Mohave | the Colorado River reserve, act of 3 March 1865 as enlarged by the orders of 1873-76 | memory | 517 |
+| Hualapai | executive order of 4 January 1883 | memory | 1,592 |
+| **Total** | | | 12,667 |
+
+Squares (no line before 1887, or too small to outline): Makah, Tulalip, Puyallup, Nisqually, Bitterroot Salish, Ruby Valley, Southern Paiute, Pueblos of the Rio Grande, Taos Pueblo, Quechan, Havasupai, Kumeyaay, Paipai, Kiliwa, Cucapá, Chihenne.
+
 ## Counties adjusted to the homelands' lines
 
 - Sandía: a detached 406 sq mi goes to the Diné country homeland
-- Wasco: a detached 55 sq mi goes to Umatilla
+- Wasco: a detached 55 sq mi (near -119.18, 45.98) goes to Umatilla
 - Yakima: a detached 173 sq mi goes to the Yakama homeland
-- Spokane: a detached 5,155 sq mi goes to Big Bend
-- Bingham: a detached 838 sq mi goes to Bear River
-- Salmon: a detached 217 sq mi goes to Three Forks
+- Spokane: a detached 5,155 sq mi (near -120.27, 48.36) goes to Big Bend
+- Bingham: a detached 838 sq mi (near -111.95, 42.43) goes to Bear River
+- Salmon: a detached 217 sq mi (near -112.61, 44.40) goes to Three Forks
 - Gila: a detached 42 sq mi goes to the Apache country homeland

diff --git a/population/outputs/map_1887.md b/population/outputs/map_1887.md
@@ -93,16 +93,16 @@ The allocation by old unit is accounting: counties cross the old lines, and coun
 | County | Seat | Made of | People | Status |
 |---|---|---|---|---|
 | Seattle | Seattle | King, Kitsap | 107 | approved |
-| Spokane | Spokane Falls | Spokane, Stevens | 68 | approved |
 | Pierce | Tacoma | Pierce | 67 | approved |
+| Spokane | Spokane Falls | Spokane, Stevens | 65 | approved |
 | Walla Walla | Walla Walla | Walla Walla, Columbia, Garfield, Asotin, Franklin | 62 | approved |
 | Palouse | Colfax | Whitman, Nez Perce (ID) | 58 | approved |
 | Nooksack | Whatcom | Whatcom, San Juan | 37 | approved |
 | Chehalis | Chehalis | Lewis, Grays Harbor | 35 | approved |
 | Skagit | Mount Vernon | Skagit, Island, Snohomish | 35 | approved |
+| Big Bend | Sprague | Lincoln, Adams, Douglas | 30 | approved |
 | Yakima | Ellensburg | Yakima, Kittitas | 27 | approved |
 | Clark | Vancouver | Clark | 27 | approved |
-| Big Bend | Sprague | Lincoln, Adams, Douglas | 27 | approved |
 | Olympia | Olympia | Thurston, Mason | 25 | approved |
 | Juan de Fuca | Port Townsend | Jefferson, Clallam | 20 | approved |
 
